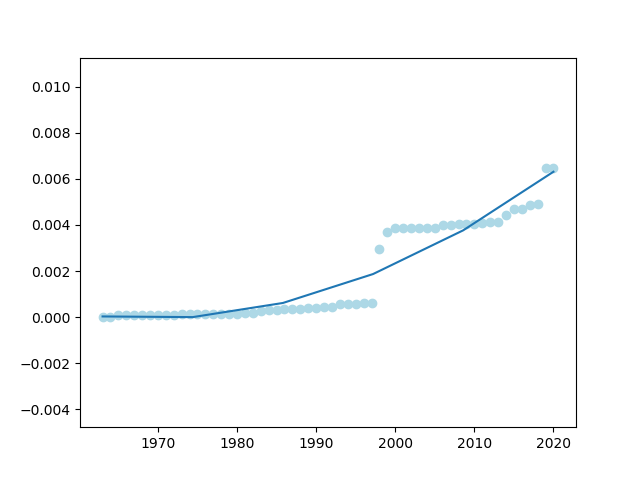
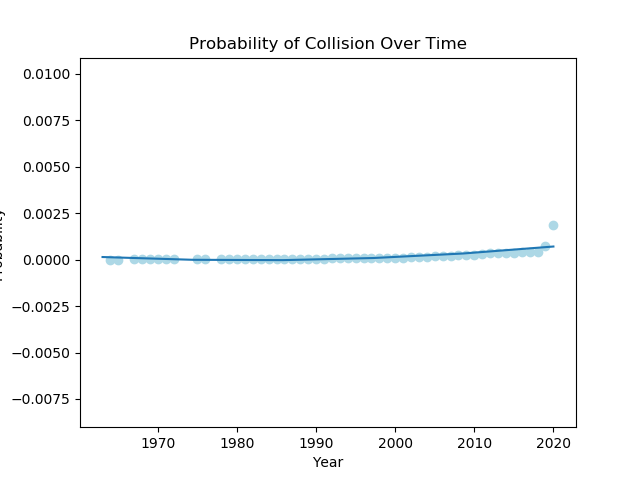
Added titles

diff --git a/data_analysis.py b/data_analysis.py
@@ -136,6 +136,9 @@ def polynomial_fit_probability(data):
     plt.scatter(x, y, color='lightblue')
     line = np.linspace(1963, 2020, 6)
     plt.plot(line, prob_func(line))
+    plt.title('Probability of Collision Over Time')
+    plt.xlabel('Year')
+    plt.ylabel('Probability')
     fig.savefig('poly_fit_probability.png')
     # print some information about the model
     print()
@@ -174,7 +177,7 @@ def get_orbit_tally(data, orbit, pre=True):
 def main():
     df = process_data('test.txt')
     # polynomial_fit_count(df)
-    # polynomial_fit_probability(df)
+    polynomial_fit_probability(df)
     get_orbit_tally(df, 'GEO')
 
 
